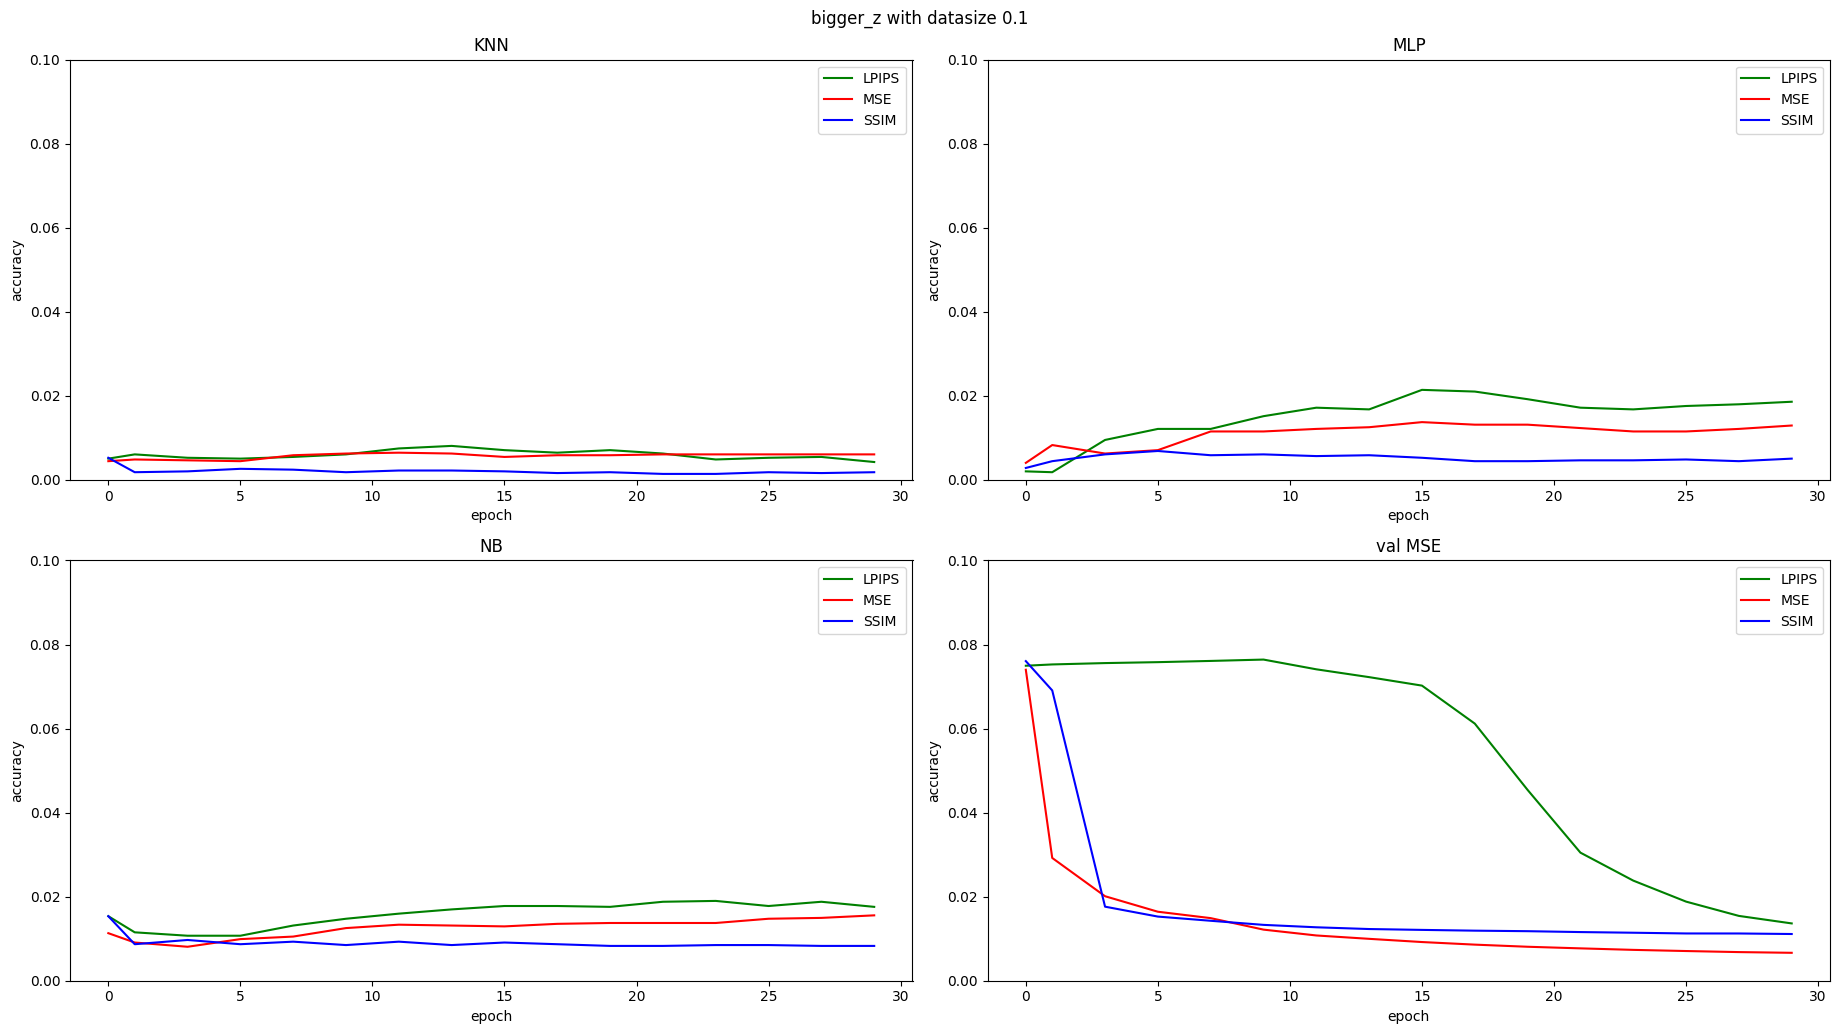
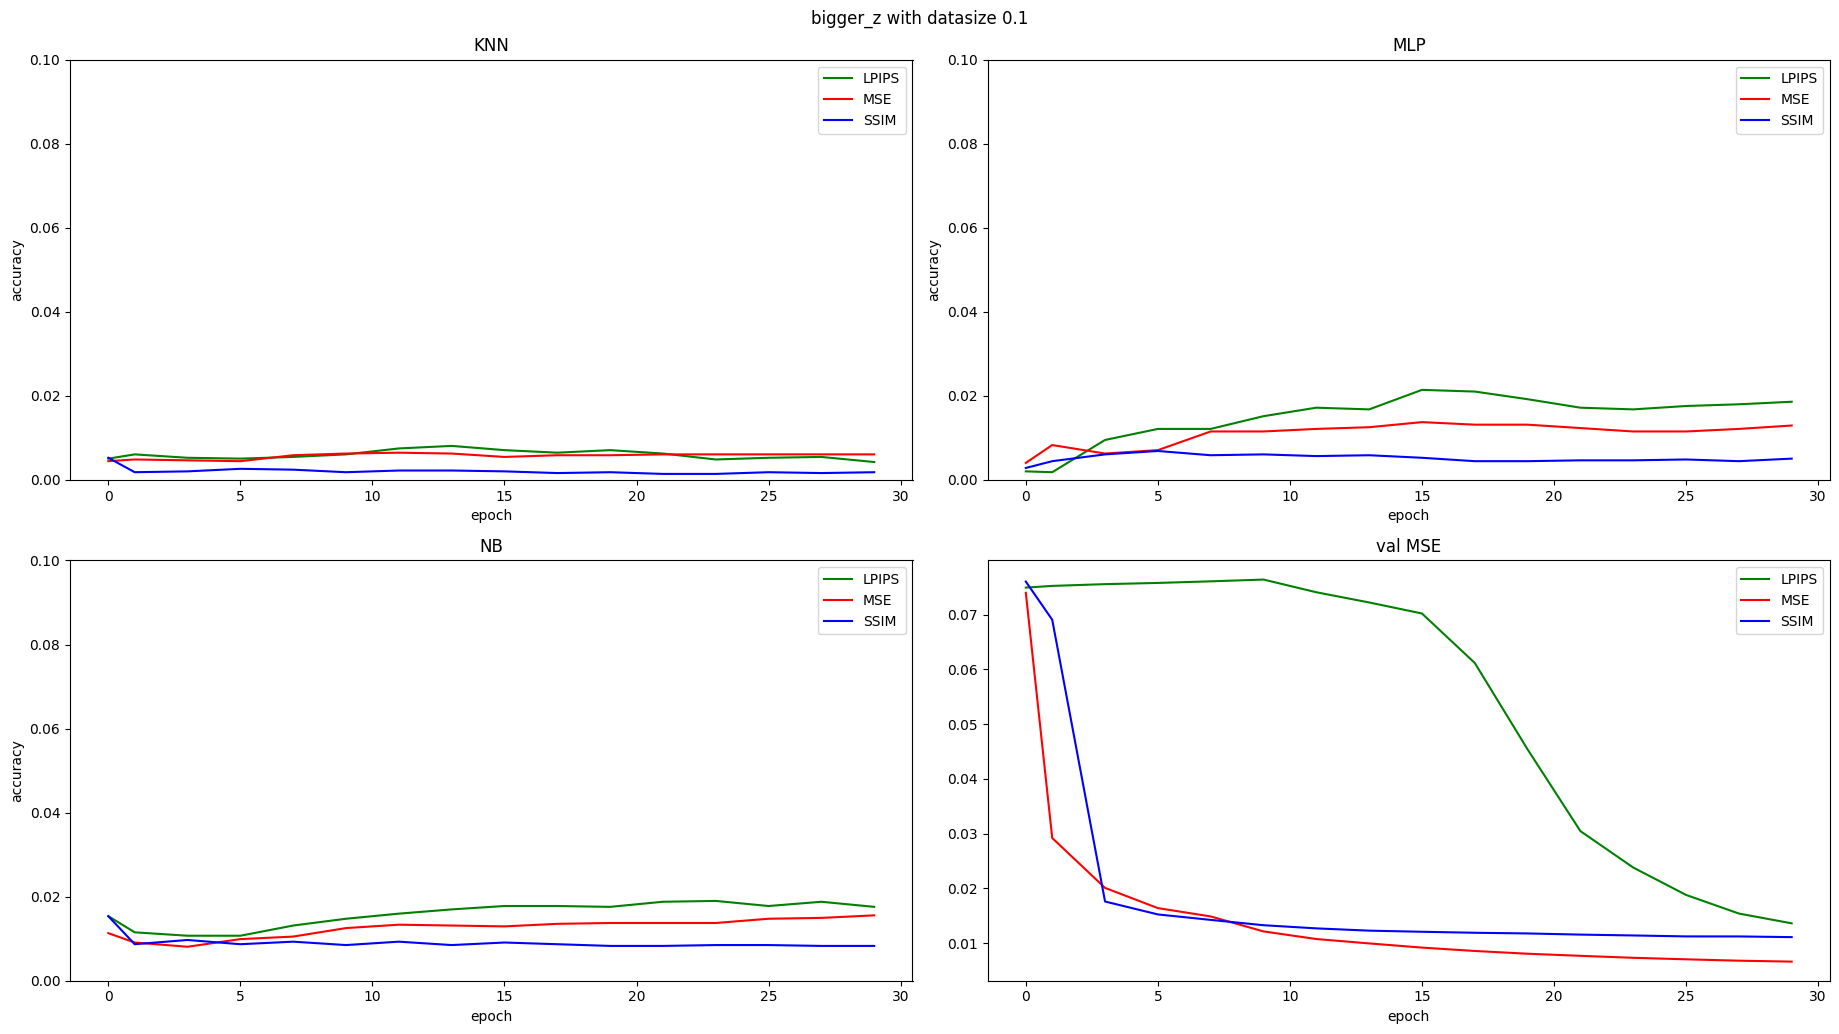
lims pltos

diff --git a/plots/plot_training_runs.py b/plots/plot_training_runs.py
@@ -63,11 +63,12 @@ for dataset, networks in tqdm(all_results.items()):
                 axs[v_num, plot_num].title.set_text(val_name)
                 axs[v_num, plot_num].legend()
                 axs[v_num, plot_num].set_xlabel('epoch')
-                axs[v_num, plot_num].set_ylabel('accuracy')
-                if 'IMAGENET' in dataset:
-                    axs[v_num, plot_num].set_ylim([0, 0.1])
-                else:
-                    axs[v_num, plot_num].set_ylim([0, 0.8])
+                if val_name != 'val MSE':
+                    axs[v_num, plot_num].set_ylabel('accuracy')
+                    if 'IMAGENET' in dataset:
+                        axs[v_num, plot_num].set_ylim([0, 0.1])
+                    else:
+                        axs[v_num, plot_num].set_ylim([0, 0.8])
 
                 plot_num += 1
                 if plot_num == h_plots:
